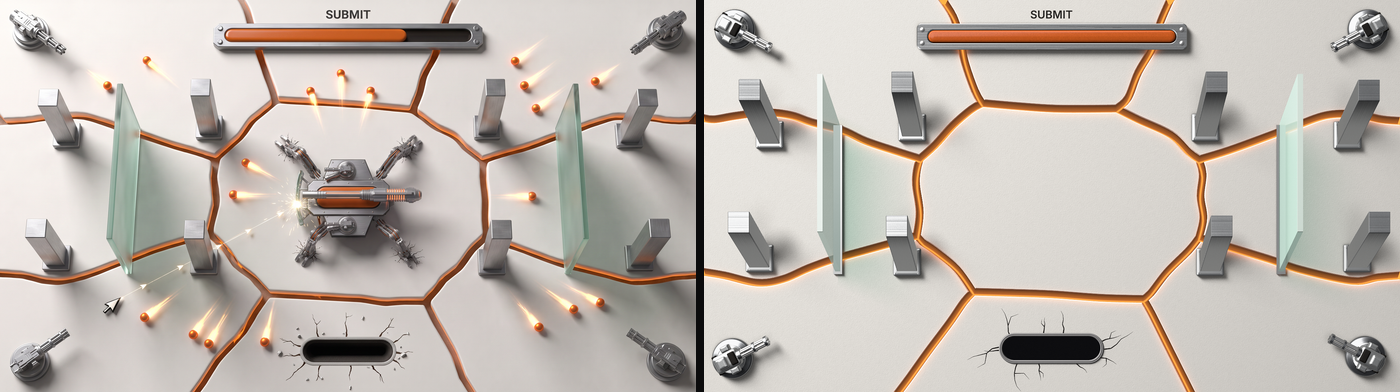
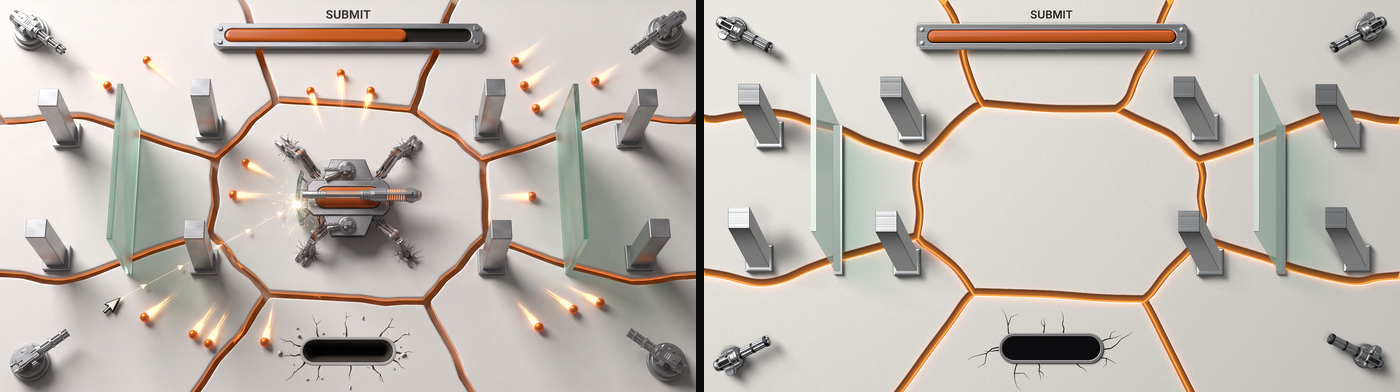
corner guns are the look's rotary gun, a measure mode for the harness

diff --git a/src/arena/props.ts b/src/arena/props.ts
@@ -1,4 +1,5 @@
 // What stands in the arena: eight pillars, two panes, a rotary gun in each corner, and the health bar in its bolted frame.
+import { makeGun as makeLookGun, poseGun as poseLookGun, type Gun as LookGun } from '../boss/look1/gun'
 import * as THREE from 'three'
 import type { BossView, ViewCorner } from '../boss/view'
 import { studio } from '../post/studio'
@@ -159,40 +160,8 @@ function paneShade(x: number, y0: number, y1: number): THREE.BufferGeometry {
   return g
 }
 
-export interface Gun { root: THREE.Group; turret: THREE.Group; barrels: THREE.Group; muzzle: THREE.Mesh; flash: THREE.Mesh; order: number }
-
-function gunGeometries(): { base: THREE.BufferGeometry; ring: THREE.BufferGeometry; body: THREE.BufferGeometry; dark: THREE.BufferGeometry; barrels: THREE.BufferGeometry; clamps: THREE.BufferGeometry } {
-  const G = ARENA.gun
-  const base = sweep(outlineOf({ kind: 'disc', w: G.base * 2, h: G.base * 2 }), profile([[0, 0, true], [0, 5], [3, 8], [10, 8], [13, 11], [G.base - 16, 11]]), true)
-  const ring = sweep(outlineOf({ kind: 'disc', w: (G.base - 14) * 2, h: (G.base - 14) * 2 }), profile([[0, 11, true], [0, 15], [2, 17], [G.base - 26, 17]]), true)
-  const box = (w: number, h: number, d: number, x: number, y: number, z: number): THREE.BufferGeometry => {
-    const g = sweep(roundedRect(w, h, Math.min(w, h) * 0.18, 4), profile([[0, 0, true], [0, d - 2], [2, d], [Math.min(w, h) * 0.3, d]]), true)
-    g.translate(x, y, z)
-    return g
-  }
-  // The turret looks along +x.
-  const body = merge([box(58, 40, 20, -4, 0, 17), box(24, 26, 8, -14, 0, 37), box(20, 14, 14, 2, 27, 17), box(20, 14, 14, 2, -27, 17)])
-  const dark = merge([box(16, 30, 4, 12, 0, 37), box(10, 46, 10, -30, 0, 19)])
-  const tubes: THREE.BufferGeometry[] = []
-  for (let i = 0; i < 6; i++) {
-    const a = (i / 6) * Math.PI * 2
-    const t = new THREE.CylinderGeometry(3.1, 3.1, G.barrel, 10, 1)
-    t.rotateZ(-Math.PI / 2)
-    t.translate(G.barrel / 2, Math.cos(a) * 7.2, Math.sin(a) * 7.2)
-    tubes.push(t)
-  }
-  const clamp = (x: number, r: number, w: number): THREE.BufferGeometry => {
-    const c = new THREE.CylinderGeometry(r, r, w, 20, 1)
-    c.rotateZ(-Math.PI / 2)
-    c.translate(x, 0, 0)
-    return c
-  }
-  const strip = (g: THREE.BufferGeometry): THREE.BufferGeometry => {
-    const out = g.index ? g : g
-    return out
-  }
-  return { base, ring, body, dark, barrels: merge(tubes), clamps: merge([clamp(6, 12.5, 9), clamp(G.barrel * 0.55, 12, 5), clamp(G.barrel - 5, 12, 6)]) }
-}
+// The corner guns are the rotary gun of the boss's own sides (src/boss/look1/gun.ts), a little larger.
+export interface Gun { root: THREE.Group; look: LookGun; order: number }
 
 let dotMade: THREE.DataTexture | null = null
 // A soft round dot, bright in the middle, for a flash or a puff.
@@ -215,34 +184,17 @@ export function softDot(): THREE.DataTexture {
   return dotMade
 }
 
-export function makeGuns(kit: Kit): { object: THREE.Group; list: Gun[]; flashStuff: THREE.Material[]; dispose(): void } {
-  const g = gunGeometries()
-  const G = ARENA.gun
+export function makeGuns(_kit: Kit): { object: THREE.Group; list: Gun[]; dispose(): void } {
   const object = new THREE.Group()
-  const flashGeo = new THREE.PlaneGeometry(1, 1)
-  const flashStuff: THREE.Material[] = []
   const list: Gun[] = ARENA.corners.map((c, i) => {
+    const look = makeLookGun()
     const root = new THREE.Group()
     root.position.set(wx(c.x), wy(c.y), 0)
-    const turret = new THREE.Group()
-    const barrels = new THREE.Group()
-    barrels.position.set(22, 0, 30)
-    barrels.add(lit(g.barrels, kit.chrome), lit(g.clamps, kit.steel))
-    const muzzle = new THREE.Mesh(new THREE.SphereGeometry(6, 12, 8), kit.hot)
-    muzzle.position.set(22 + G.barrel + 2, 0, 30)
-    muzzle.visible = false
-    const stuff = new THREE.MeshBasicMaterial({ map: softDot(), color: new THREE.Color(3.5, 1.6, 0.4), transparent: true, blending: THREE.AdditiveBlending, depthWrite: false, toneMapped: false, opacity: 0 })
-    flashStuff.push(stuff)
-    const flash = new THREE.Mesh(flashGeo, stuff)
-    flash.position.set(22 + G.barrel + 18, 0, 34)
-    flash.scale.set(90, 60, 1)
-    flash.visible = false
-    turret.add(lit(g.body, kit.satin), lit(g.dark, kit.dark), barrels, muzzle, flash)
-    root.add(lit(g.base, kit.steel), lit(g.ring, kit.aluminium), turret)
+    root.add(look.root)
     object.add(root)
-    return { root, turret, barrels, muzzle, flash, order: 0.86 + 0.045 * i }
+    return { root, look, order: 0.86 + 0.045 * i }
   })
-  return { object, list, flashStuff, dispose: () => { Object.values(g).forEach((x) => x.dispose()); flashGeo.dispose(); flashStuff.forEach((x) => x.dispose()) } }
+  return { object, list, dispose: () => list.forEach((g) => g.look.dispose()) }
 }
 
 export const GUN_LIGHT = { tell: { colour: [1, 0.42, 0.1] as [number, number, number], power: 0.5, reach: 150 }, fire: { colour: [1, 0.62, 0.25] as [number, number, number], power: 1.4, reach: 260 } }
@@ -251,24 +203,19 @@ export function poseGun(gun: Gun, c: ViewCorner, time: number, light?: (e: Emitt
   const up = rise(time, gun.order)
   gun.root.visible = up > 0
   if (!gun.root.visible) return
+  const k = ARENA.gun.scale
   gun.root.position.set(wx(c.x), wy(c.y), 0)
-  gun.root.scale.set(ARENA.gun.scale, ARENA.gun.scale, ARENA.gun.scale * Math.max(0.02, up))
-  // 0 along +x, growing clockwise on the page: on the page y runs down, here it runs up.
-  gun.turret.rotation.z = -c.aim
+  gun.root.scale.set(k, k, k * Math.max(0.02, up))
   const tell = clamp01(c.tell)
   const since = c.firedAt === null ? 9 : time - c.firedAt
   const kick = since >= 0 && since < 0.5 ? Math.exp(-since / 0.07) : 0
-  gun.turret.position.set(-Math.cos(c.aim) * 9 * kick, Math.sin(c.aim) * 9 * kick, 0)
-  // The cluster spins up with the tell; the angle is a function of the time alone.
-  gun.barrels.rotation.x = time * 26 * tell * tell + (since < 0.4 ? since * 30 * (1 - since / 0.4) : 0)
-  gun.muzzle.visible = tell > 0.02
-  gun.muzzle.scale.setScalar(0.4 + 1.1 * tell)
-  const flashOn = since >= 0 && since < 0.09
-  gun.flash.visible = flashOn
-  if (flashOn) (gun.flash.material as THREE.MeshBasicMaterial).opacity = 1 - since / 0.09
+  const flash = since >= 0 && since < 0.09 ? 1 - since / 0.09 : 0
+  // 0 along +x, growing clockwise on the page: on the page y runs down, here it runs up. The cluster spins up with the tell; its angle is a function of the time alone.
+  poseLookGun(gun.look, { yaw: -c.aim, spin: time * 26 * tell * tell + (since >= 0 && since < 0.4 ? since * 30 * (1 - since / 0.4) : 0), recoil: 16 * kick + 7 * tell, lamp: tell, flash })
   if (light) {
-    const mx = c.x + Math.cos(c.aim) * (22 + ARENA.gun.barrel), my = c.y + Math.sin(c.aim) * (22 + ARENA.gun.barrel)
-    if (flashOn) light({ x: mx, y: my, z: 36, colour: GUN_LIGHT.fire.colour, power: GUN_LIGHT.fire.power * (1 - since / 0.09), reach: GUN_LIGHT.fire.reach })
+    const reach = ARENA.gun.reach
+    const mx = c.x + Math.cos(c.aim) * reach, my = c.y + Math.sin(c.aim) * reach
+    if (flash > 0) light({ x: mx, y: my, z: 36, colour: GUN_LIGHT.fire.colour, power: GUN_LIGHT.fire.power * flash, reach: GUN_LIGHT.fire.reach })
     else if (tell > 0.3) light({ x: mx, y: my, z: 34, colour: GUN_LIGHT.tell.colour, power: GUN_LIGHT.tell.power * tell, reach: GUN_LIGHT.tell.reach })
   }
 }

diff --git a/src/arena/layout.ts b/src/arena/layout.ts
@@ -27,7 +27,8 @@ export const ARENA = {
   pane: { thick: 14, high: 240 },
   // The picture is drawn a little from below and from the right of the page: every standing thing leans up the screen by `lean` of its height and to the left by `leanX` of it. Its foot stays where it is: the foot is what stops a shot.
   lean: 0.5, leanX: -0.26,
-  gun: { base: 46, high: 34, barrel: 78, scale: 1.2 },
+  // The corner guns: the look's rotary gun at this scale (the boss carries it at 0.383), and how far its muzzle is from its foot, in page px.
+  gun: { scale: 0.62, reach: 122 },
   slot: { x: 960, y: 960, w: 270, h: 66 },
   bar: { x0: 590, y0: 66, x1: 1333, y1: 137, trackInset: 22, trackHalf: 19, high: 9 },
   label: { x: 960, y: 40, px: 30, font: 'inter-600' },
